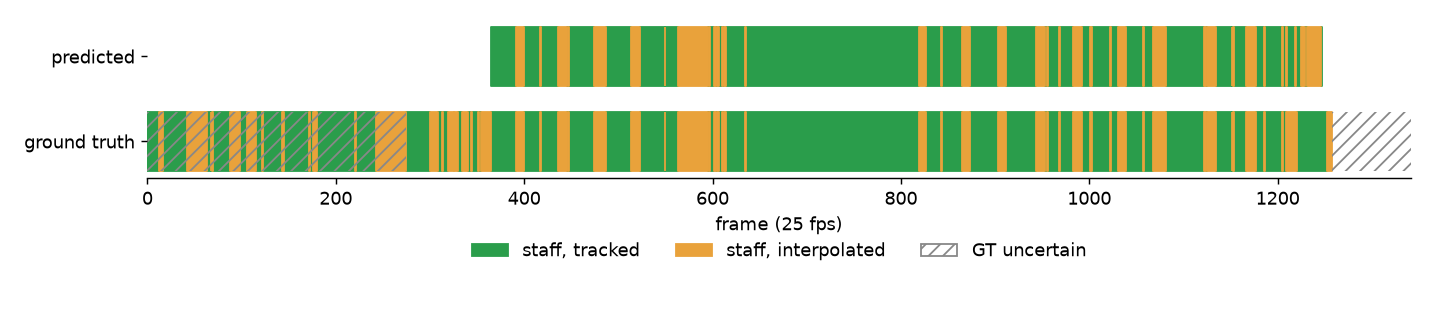
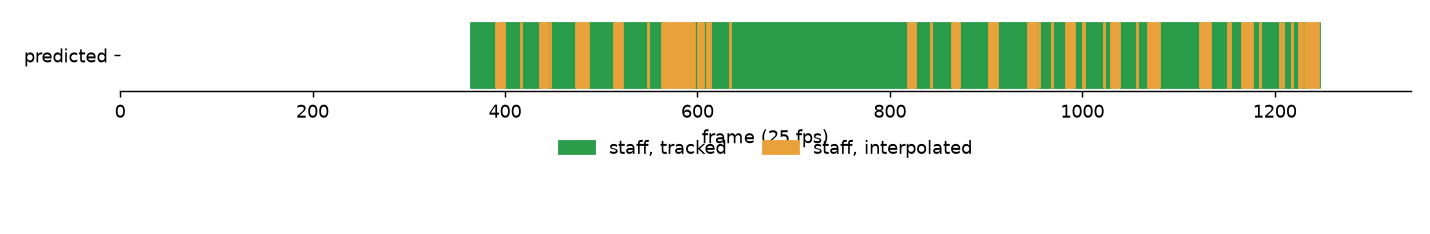
Write annotated video as H.264 for QuickTime/browser playback

diff --git a/src/staffid/pipeline.py b/src/staffid/pipeline.py
@@ -75,8 +75,11 @@ def write_video(video: str | Path, out_path: Path, res: dict, p: PipelineParams)
     by_frame = {f: g for f, g in tracks.groupby("frame")}
     hits = scores[scores.score >= p.vote.hit_thresh]
     hit_by_frame = {f: g for f, g in hits.groupby("frame")}
-    wr = cv2.VideoWriter(str(out_path), cv2.VideoWriter_fourcc(*"mp4v"), info["fps"],
-                         (info["width"], info["height"]))
+    size = (info["width"], info["height"])
+    # H.264 plays in QuickTime and browsers; fall back to MPEG-4 Part 2 if this OpenCV build lacks it
+    wr = cv2.VideoWriter(str(out_path), cv2.VideoWriter_fourcc(*"avc1"), info["fps"], size)
+    if not wr.isOpened():
+        wr = cv2.VideoWriter(str(out_path), cv2.VideoWriter_fourcc(*"mp4v"), info["fps"], size)
     for idx, frame in tqdm(iter_frames(video), total=info["frames"], desc="writing video", unit="frame"):
         for r in by_frame.get(idx, pd.DataFrame()).itertuples():
             cv2.rectangle(frame, (int(r.x1), int(r.y1)), (int(r.x2), int(r.y2)), (160, 160, 160), 1)
